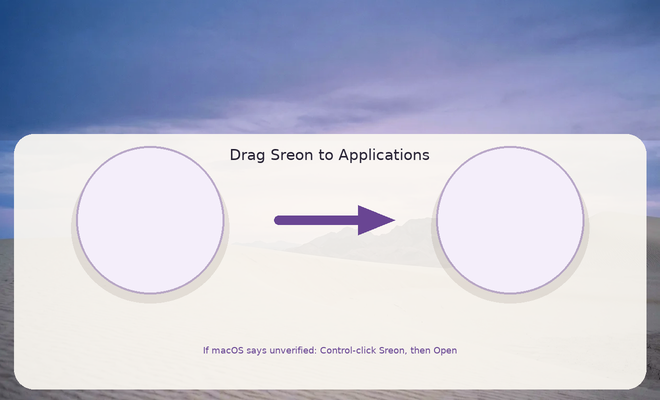
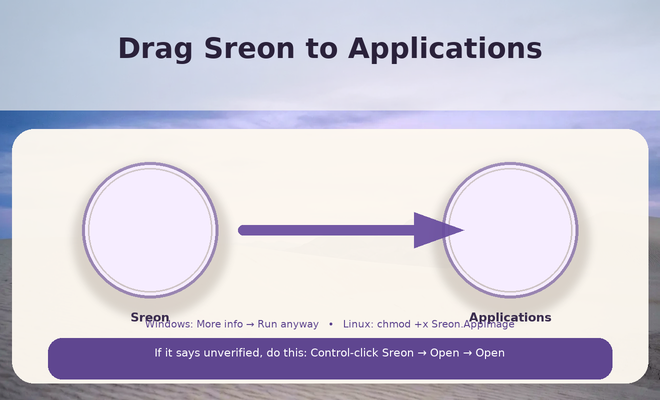
Make the Mac disk image verified and the drag area better with full unverified steps

diff --git a/Browser/tools/build.py b/Browser/tools/build.py
@@ -84,9 +84,33 @@ def pyinstaller():
 
 def _detach_sreon_volume():
     subprocess.run(["hdiutil", "detach", "/Volumes/Sreon", "-force"], stdout=subprocess.DEVNULL, stderr=subprocess.DEVNULL)
+    tmp = Path("/tmp/sreon-verify")
+    if tmp.exists():
+        subprocess.run(["hdiutil", "detach", str(tmp), "-force"], stdout=subprocess.DEVNULL, stderr=subprocess.DEVNULL)
 
 def _dmg_ok(path):
     return path.is_file() and path.stat().st_size > 1_000_000
+
+def _verify_dmg(path):
+    try:
+        subprocess.run(["hdiutil", "verify", str(path)], stdout=subprocess.DEVNULL, stderr=subprocess.DEVNULL, timeout=60, check=True)
+    except Exception:
+        return False
+    mount = Path("/tmp/sreon-verify")
+    if mount.exists():
+        shutil.rmtree(mount, ignore_errors=True)
+    mount.mkdir(parents=True, exist_ok=True)
+    ok = False
+    try:
+        subprocess.run(["hdiutil", "attach", "-readonly", "-noverify", "-noautoopen", "-mountpoint", str(mount), str(path)], stdout=subprocess.DEVNULL, stderr=subprocess.DEVNULL, timeout=30, check=True)
+        ok = (mount / "Sreon.app").exists() or any(mount.iterdir())
+    except Exception:
+        ok = False
+    finally:
+        subprocess.run(["hdiutil", "detach", str(mount), "-force"], stdout=subprocess.DEVNULL, stderr=subprocess.DEVNULL)
+        _detach_sreon_volume()
+        shutil.rmtree(mount, ignore_errors=True)
+    return ok
 
 def dmg():
     app = ROOT / "dist" / "Sreon.app"
@@ -111,8 +135,9 @@ def dmg():
         command = [
             maker, "--volname", "Sreon", "--background", str(background),
             "--window-pos", "200", "120", "--window-size", "660", "400",
-            "--icon-size", "128", "--icon", "Sreon.app", "150", "220",
-            "--app-drop-link", "510", "220", "--no-internet-enable",
+            "--icon-size", "128", "--icon", "Sreon.app", "150", "230",
+            "--app-drop-link", "510", "230", "--format", "UDZO",
+            "--no-internet-enable",
         ]
         icns = ROOT / "assets" / "icon.icns"
         if icns.is_file():
@@ -129,16 +154,21 @@ def dmg():
                 process = None
         _detach_sreon_volume()
         if process is not None:
-            print(log.read_text(encoding="utf-8", errors="replace")[-4000:], flush=True)
-        if _dmg_ok(dmg_path):
+            print(log.read_text(encoding="utf-8", errors="replace")[-6000:], flush=True)
+        else:
+            print(log.read_text(encoding="utf-8", errors="replace")[-6000:], flush=True)
+        if _dmg_ok(dmg_path) and _verify_dmg(dmg_path):
+            print("disk image verified", dmg_path, flush=True)
             return
-        print("create-dmg failed, writing a plain disk image that still opens", flush=True)
+        print("create-dmg failed or verify failed, writing a plain disk image that still opens", flush=True)
         if dmg_path.exists():
             dmg_path.unlink()
     Path(stage / "Applications").symlink_to("/Applications")
     run(["hdiutil", "create", "-volname", "Sreon", "-srcfolder", str(stage), "-ov", "-format", "UDZO", "-imagekey", "zlib-level=9", str(dmg_path)])
     if not _dmg_ok(dmg_path):
         raise SystemExit("Sreon.dmg was not written")
+    if not _verify_dmg(dmg_path):
+        raise SystemExit("Sreon.dmg verify failed")
 
 def linux_tar():
     source = ROOT / "dist" / "Sreon"

diff --git a/Browser/app/window.py b/Browser/app/window.py
@@ -587,12 +587,17 @@ class BrowserWindow(QMainWindow):
         return super().eventFilter(obj, event)
 
     def _unverified_help(self):
-        if sys.platform == "darwin":
-            text = "Sreon is not Apple-signed. If macOS says it is unverified, Control-click Sreon, choose Open, then click Open. You only do this once. If it still refuses: System Settings → Privacy & Security → Open Anyway."
-        elif sys.platform == "win32":
-            text = "Sreon is not publisher-signed. If SmartScreen says Windows protected your PC, click More info, then Run anyway. Or right-click Sreon.exe → Properties → Unblock."
-        else:
-            text = "chmod +x Sreon.AppImage && ./Sreon.AppImage. If it will not run: ./Sreon.AppImage --appimage-extract-and-run, or unpack Sreon-linux.tar.gz and run ./Sreon."
+        text = (
+            "Sreon is open source and not Apple or Microsoft signed. The warning is expected.\n\n"
+            "Mac: If Sreon.dmg won't open, Control-click it -> Open. Drag Sreon to Applications. "
+            "Then in Applications Control-click Sreon -> Open -> Open. Once only. "
+            "If it still refuses: System Settings -> Privacy & Security -> Open Anyway. "
+            "If damaged: xattr -dr com.apple.quarantine ~/Downloads/Sreon.dmg\n\n"
+            "Windows: If SmartScreen says Windows protected your PC, click More info -> Run anyway. "
+            "Or right-click Sreon.exe -> Properties -> Unblock.\n\n"
+            "Linux: chmod +x Sreon.AppImage && ./Sreon.AppImage. "
+            "If FUSE error: ./Sreon.AppImage --appimage-extract-and-run, or unpack Sreon-linux.tar.gz and run ./Sreon"
+        )
         QMessageBox.information(self, "If Sreon is unverified", text)
 
     def _welcome(self):

diff --git a/Extra/HOW-IT-WORKS.md b/Extra/HOW-IT-WORKS.md
@@ -6,25 +6,27 @@ The start page keeps the original Sreon mark and the line **Search privately. Br
 
 ## Install
 
-Download the one folder: [Sreon.zip](https://github.com/FellowPythonCoder/Sreon-Browser/releases/download/sreon-preview/Sreon.zip). It contains Windows, macOS, Linux double-click apps, this guide, `unable.txt`, website code, and source. GitHub may require sign-in. Builds are also on [Sreon Browser](https://github.com/FellowPythonCoder/Sreon-Browser/actions/workflows/browser.yml).
+Download the one folder: [Sreon.zip](https://github.com/FellowPythonCoder/Sreon-Browser/releases/download/sreon-preview/Sreon.zip). It contains Windows, macOS, Linux double-click apps, this guide, `unable.txt`, `If-it-says-unverified.txt`, website code, and source. GitHub may require sign-in. Builds are also on [Sreon Browser](https://github.com/FellowPythonCoder/Sreon-Browser/actions/workflows/browser.yml).
 
 | System | In the folder | Run |
 | --- | --- | --- |
-| Windows 10/11, x64 | `Windows/Sreon.exe` | Unzip and open `Sreon.exe`. |
-| macOS 11+ | `macOS/Sreon.dmg` | Open the DMG and drag Sreon onto Applications. |
+| Windows 10/11, x64 | `Windows/Sreon.exe` | Unzip and open `Sreon.exe`. Keep the folder together. |
+| macOS 11+ | `macOS/Sreon.dmg` | Open the DMG. The window shows a cream tray with Sreon on the left and Applications on the right and a purple arrow. Drag Sreon onto Applications. |
 | Linux x86-64 | `Linux/Sreon.AppImage` and `Sreon-linux.tar.gz` | `chmod +x Sreon.AppImage && ./Sreon.AppImage`. If FUSE is missing: `./Sreon.AppImage --appimage-extract-and-run`, or unpack the tar.gz and run `./Sreon`. |
 
 ### If it says unverified
 
-Sreon is open source and is not Apple-notarized or Microsoft-signed. That warning is expected. Do this:
+Sreon is open source and is not Apple-notarized or Microsoft-signed. The warning is expected. The DMG background itself says what to do. Do this:
 
-**Mac.** If `Sreon.dmg` will not open, Control-click it and choose Open. Drag Sreon onto Applications. Then Control-click Sreon in Applications, choose Open, and click Open. Once only. If it still refuses: System Settings → Privacy & Security → Open Anyway.
+**Mac - DMG won't open.** Control-click `Sreon.dmg` and choose Open, then Open again. If macOS says it is damaged, open Terminal and run `xattr -dr com.apple.quarantine ~/Downloads/Sreon.dmg` (use the real path) then try again. Drag Sreon onto Applications. Then open Applications, Control-click Sreon, choose Open, and click Open. Once only. If it still refuses: System Settings → Privacy & Security → scroll down → Open Anyway.
+
+**Mac - app says unverified after dragging.** Control-click Sreon in Applications → Open → Open. Or System Settings → Privacy & Security → Open Anyway.
 
 **Windows.** If SmartScreen says “Windows protected your PC”, click More info, then Run anyway. If the file is blocked: right-click `Sreon.exe` → Properties → Unblock → OK.
 
-**Linux.** `chmod +x Sreon.AppImage && ./Sreon.AppImage`. If it still will not run: `./Sreon.AppImage --appimage-extract-and-run`.
+**Linux.** `chmod +x Sreon.AppImage && ./Sreon.AppImage`. If it still will not run: `./Sreon.AppImage --appimage-extract-and-run` or unpack `Sreon-linux.tar.gz` and run `./Sreon/Sreon`.
 
-The same steps are in `If-it-says-unverified.txt`.
+The same steps are in `If-it-says-unverified.txt` and in Help → If Sreon is unverified inside the browser.
 
 Internet is required for websites and live search. The app does not phone home to Sreon. Search queries go to the public sources used by the Rust engine only when you search. Website visits are ordinary HTTPS to that site.
 
